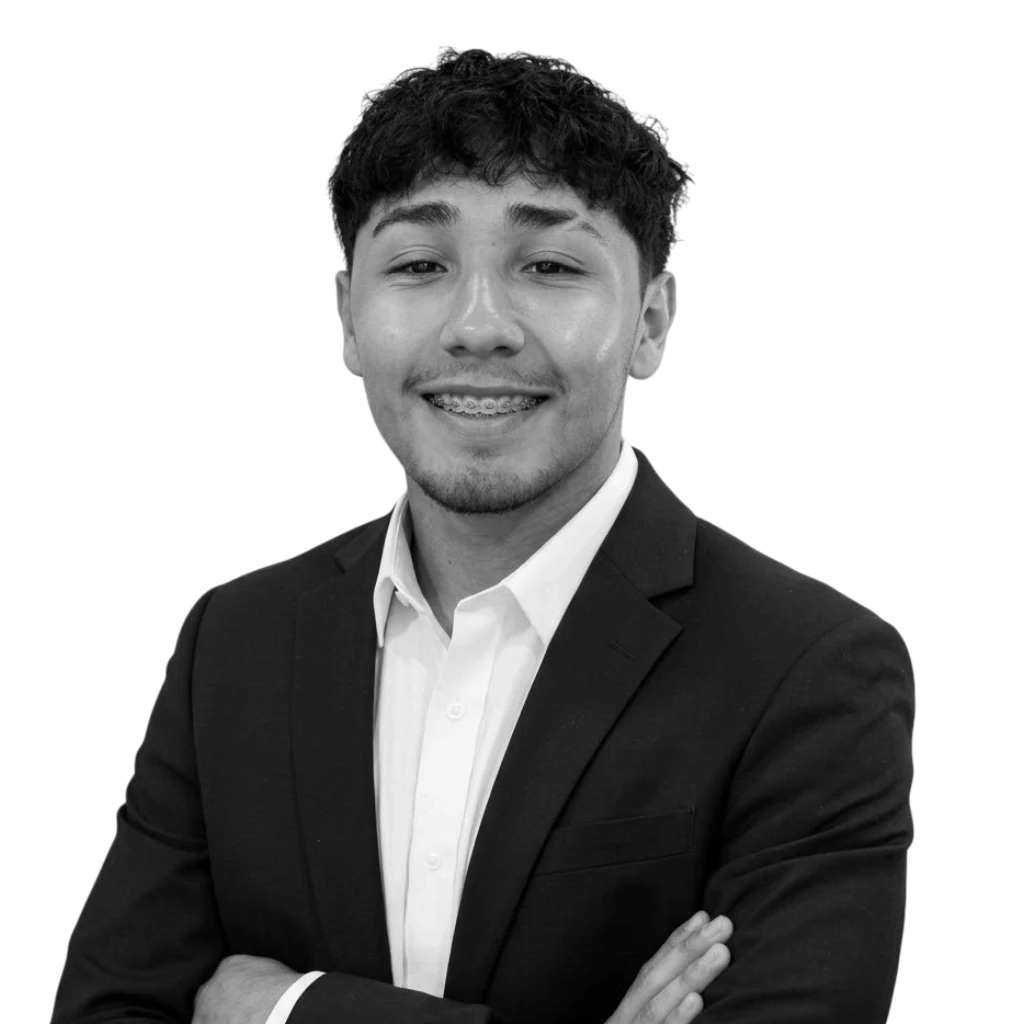
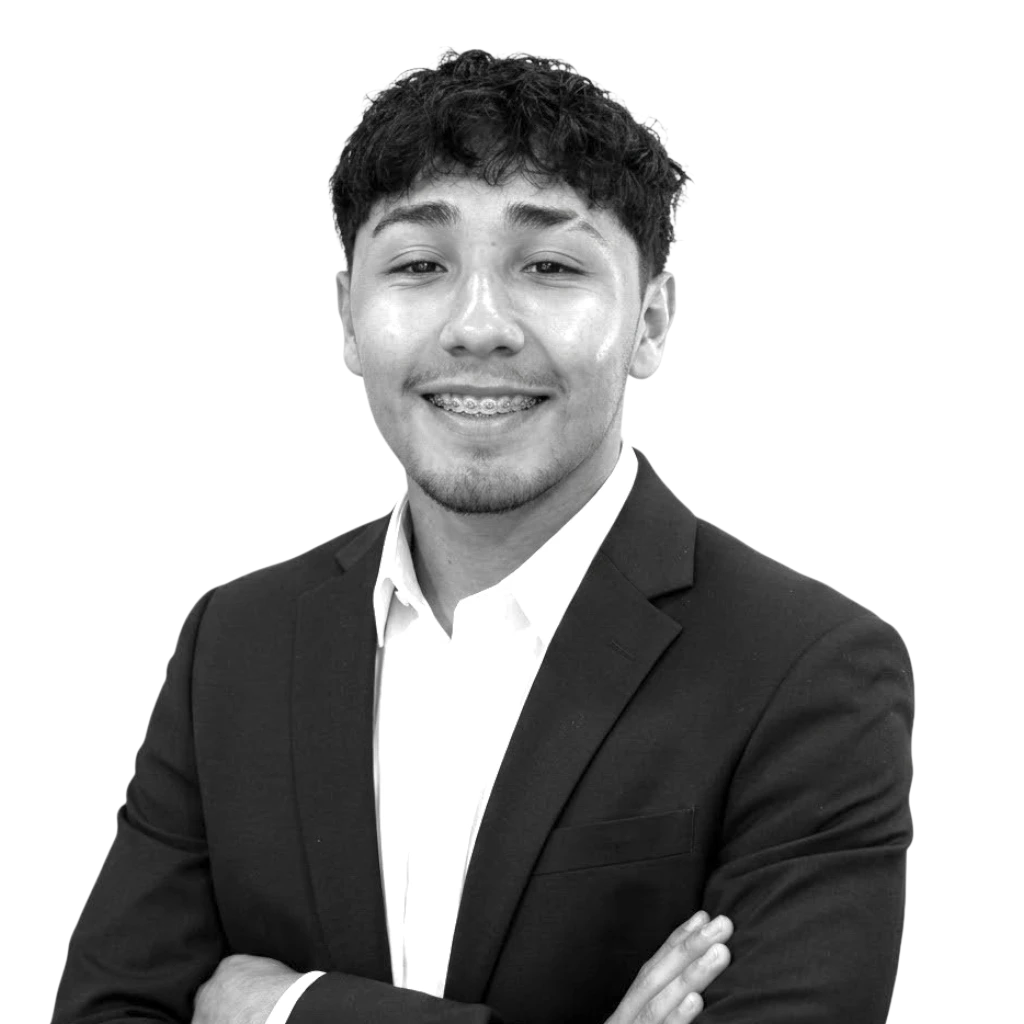
feat: personalizar idioma y metadatos del portfolio

diff --git a/src/components/layout/Footer.tsx b/src/components/layout/Footer.tsx
@@ -1,0 +1,79 @@
+import { profile } from "../../data/profile";
+
+const linkClass =
+  "rounded-sm text-sm text-[#bbc1c4] underline-offset-4 transition-colors hover:text-white hover:underline focus-visible:outline-2 focus-visible:outline-offset-4 focus-visible:outline-blue-400";
+
+export default function Footer() {
+
+  return (
+    <footer className="bg-[#101618] text-[#f3f4f4]">
+      <div className="mx-auto w-full max-w-6xl px-6 sm:px-8">
+        <div className="flex flex-col gap-8 border-t border-[#354044] py-8 sm:flex-row sm:items-start sm:justify-between">
+          <div>
+            <a
+              href="#inicio"
+              aria-label="Volver al inicio"
+              className="inline-block rounded-sm text-2xl font-extrabold tracking-tighter focus-visible:outline-2 focus-visible:outline-offset-4 focus-visible:outline-blue-400"
+            >
+              {profile.initials}
+            </a>
+
+            <p className="mt-3 max-w-xl text-sm leading-6 text-[#bbc1c4]">
+              Gracias por visitar mi portfolio.
+              Si tienes una oportunidad o una idea, conversemos.
+            </p>
+
+            {profile.email && (
+              <a
+                href={`mailto:${profile.email}`}
+                className={`${linkClass} mt-3 inline-block max-w-full break-all`}
+              >
+                {profile.email}
+              </a>
+            )}
+          </div>
+
+          <div className="flex flex-col gap-4 sm:items-end">
+            <nav
+              aria-label="Enlaces del pie de página"
+              className="flex flex-wrap gap-x-5 gap-y-3"
+            >
+              {profile.githubUrl && (
+                <a
+                  href={profile.githubUrl}
+                  target="_blank"
+                  rel="noopener noreferrer"
+                  className={linkClass}
+                >
+                  GitHub
+                  <span className="sr-only">
+                    {" "}(se abre en otra pestaña)
+                  </span>
+                </a>
+              )}
+
+              {profile.linkedinUrl && (
+                <a
+                  href={profile.linkedinUrl}
+                  target="_blank"
+                  rel="noopener noreferrer"
+                  className={linkClass}
+                >
+                  LinkedIn
+                  <span className="sr-only">
+                    {" "}(se abre en otra pestaña)
+                  </span>
+                </a>
+              )}
+
+              <a href="#inicio" className={linkClass}>
+                Volver arriba
+                <span aria-hidden="true"> ↑</span>
+              </a>
+            </nav>
+          </div>
+        </div>
+      </div>
+    </footer>
+  );
+}

diff --git a/src/App.tsx b/src/App.tsx
@@ -1,11 +1,12 @@
 import { MotionConfig } from "motion/react";
+
 import Navbar from "./components/layout/Navbar";
+import Footer from "./components/layout/Footer";
+
 import Hero from "./sections/Hero";
 import Experience from "./sections/Experience";
 import Projects from "./sections/Projects";
 import About from "./sections/About";
-
-const containerClass = "mx-auto w-full max-w-6xl px-6 sm:px-8";
 
 export default function App() {
   return (
@@ -26,23 +27,7 @@ export default function App() {
         <About />
       </main>
 
-      <footer className="bg-[#101618] text-[#f3f4f4]">
-        <div className={containerClass}>
-          <div className="flex flex-col gap-4 border-t border-[#354044] py-6 sm:flex-row sm:items-center sm:justify-between">
-            <a
-              href="#inicio"
-              aria-label="Volver al inicio"
-              className="w-fit text-xl font-extrabold tracking-tighter"
-            >
-              JC
-            </a>
-
-            <p className="text-sm text-[#bbc1c4]">
-              Gracias por visitar mi portfolio.
-            </p>
-          </div>
-        </div>
-      </footer>
+      <Footer />
     </MotionConfig>
   );
 }

diff --git a/index.html b/index.html
@@ -1,13 +1,34 @@
 <!doctype html>
-<html lang="en">
+<html lang="es">
   <head>
+    <link rel="icon" type="image/svg+xml" href="/favicon.jpg" />
     <meta charset="UTF-8" />
-    <link rel="icon" type="image/svg+xml" href="/favicon.svg" />
-    <meta name="viewport" content="width=device-width, initial-scale=1.0" />
-    <title>juans-portfolio</title>
+
+    <meta
+      name="viewport"
+      content="width=device-width, initial-scale=1.0"
+    />
+
+    <title>Juan Cubides | Desarrollador de Software</title>
+
+    <meta
+      name="description"
+      content="Portfolio de Juan Cubides, desarrollador de software en formación con experiencia práctica en aplicaciones web frontend y backend. Conoce mis proyectos, experiencia y formación."
+    />
+
+    <meta name="author" content="Juan Cubides" />
+
+    <meta name="theme-color" content="#101618" />
   </head>
+
   <body>
+    <noscript>
+      Este portfolio necesita JavaScript para mostrar su contenido.
+      Actívalo en tu navegador para continuar.
+    </noscript>
+
     <div id="root"></div>
+
     <script type="module" src="/src/main.tsx"></script>
   </body>
 </html>
